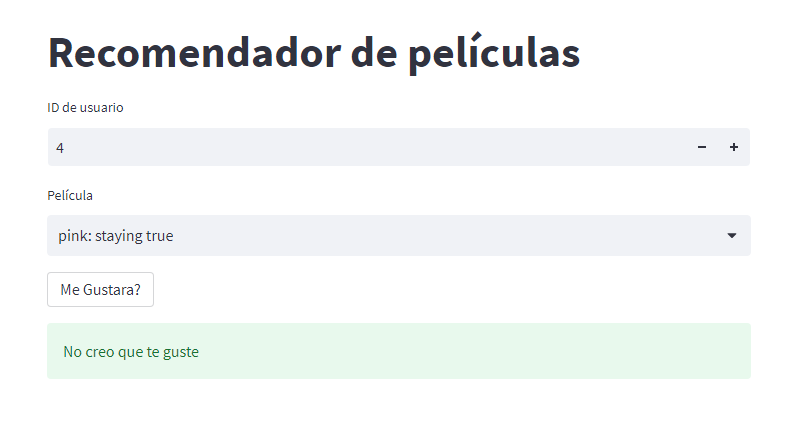
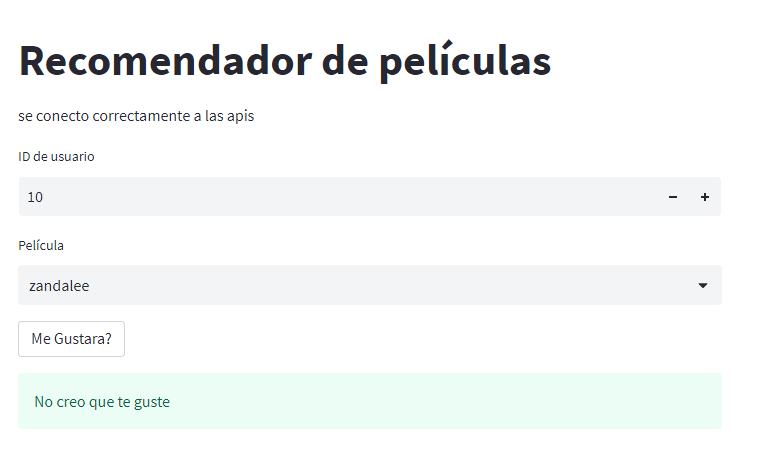
version 1

diff --git a/modelo_ML.py b/modelo_ML.py
@@ -1,23 +1,45 @@
 from sklearn.neighbors import KNeighborsRegressor
 from sklearn.model_selection import GridSearchCV
 import pandas as pd 
-from conect import data_rating
-from trasform_data_ml import export_peli
+import requests
+import json
 
 
-pelis= pd.read_csv('https://objectstorage.sa-saopaulo-1.oraclecloud.com/n/gr4oj5h2hdd0/b/documentos/o/pelis.csv')
+"""Funcion que transformara el JSON de las apis en DataFrame para su modelado """
+def transfor_dataframe(url):
+    data = json.loads(url.text)
+    df = pd.DataFrame(data)
+    return df
 
-rating = pd.read_csv('../rating.csv',index_col='Unnamed: 0')#'https://objectstorage.sa-saopaulo-1.oraclecloud.com/n/gr4oj5h2hdd0/b/documentos/o/rating.csv',index_col='Unnamed: 0')
+"""LLamada a  las Apis"""
+url_movie = requests.get('https://nestor-pi-henry.onrender.com/data')
+url_pelis = requests.get('https://suport-ml.onrender.com/peli_ml')
+
+"""Funcion que retornara un aviso si algo en las llamadas de las Apis fallo"""
+def call_api():
+    if url_movie.status_code==200 and url_pelis.status_code==200:
+        return f'se conecto correctamente a  las apis'
+    else:
+        return f'Ocurrio algun problema con las apis'
+
+
+""" Se generan los datos tanto de la apis como del documento proveniente de Oracle cloud """
+
+movie=transfor_dataframe(url_movie)
+pelis=transfor_dataframe(url_pelis)
+rating = pd.read_csv('https://objectstorage.sa-saopaulo-1.oraclecloud.com/n/gr4oj5h2hdd0/b/documentos/o/rating.csv',index_col='Unnamed: 0')
+
 change_code= {'as943':'as942', 'as5894':'as5087', 'as9037': 'as4402', 'as9059':'as7296', 'as9270' :'as7054', 'ns6706':'ns304','ns7346':'ns160', 'ns8023':'ns1271'}
+
 rating.movieId = rating.movieId.replace(change_code)
 pelis.duration_int.fillna(0,inplace=True)
 
-movie= pd.read_csv('https://objectstorage.sa-saopaulo-1.oraclecloud.com/n/gr4oj5h2hdd0/b/documentos/o/movie_clean.csv') 
-
+""" Genera y devuelve una lista de titulos unicos para que puedan ser usados en el Selectbox de streamlit"""
 def title_movie():
     title= movie['title'].unique()
     return title
 
+"""Filtra los datos para su usoen el modelo"""
 def data_fit(user):
     df1= pelis[pelis.show_id.isin(rating[rating.userId==user].movieId)]
     df2= rating[rating.userId==user][['movieId', 'rating']]
@@ -25,7 +47,7 @@ def data_fit(user):
     if nuevo.shape[0]==0: return f'No se encontro el usuario'
     return nuevo.drop(columns=['movieId'])
 
-
+""" Genera y entrena modelo y envia a la proxima funcion """
 def model_predict(user):
     data = data_fit(user)
     X = data.drop(columns=['show_id','rating'])
@@ -53,7 +75,7 @@ def select_movie(peli):
     return result
 
 
-"""Funcion final que ocupa las otras para saacar el resultado"""
+"""Funcion final donde predice el resultado y genera una respuesta """
 def select_pelic(user,peli):
     model=model_predict(user)
     X = select_movie(peli)

diff --git a/app_streamlit.py b/app_streamlit.py
@@ -1,10 +1,11 @@
 import streamlit as st
 import pandas as pd 
-from modelo_ML import title_movie, select_pelic
+from modelo_ML import title_movie, select_pelic,call_api
 
 
 
 st.title('Recomendador de películas')
+st.write(call_api())
 
 # Pide al usuario que ingrese el ID de usuario
 user_id = st.number_input('ID de usuario', min_value=0, max_value= 115077)# df['id_usuario'].max())

diff --git a/README.md b/README.md
@@ -84,6 +84,7 @@ En este proyecto, mi rol será el de Data Scientist, y también asumiré el pape
 
  ## Modelo de recomendacion
 
+
 Para la visualizacion del producto MLOps se desarrollo un modelo que prediga si una pelicula sera de su interes. El modelo arrojara como resultado si esa pelicula es recomendable para el cliente.
 
 _¿Cuantas veces hacemos zapping por las plataformas y buscamos una pelicula que nos llame la atencion o que nos produzca algo al verla y que  **NO SEA UNA PERDIDA DE TIEMPO HABERLA VISTO**?_
@@ -104,6 +105,16 @@ _Si lo quires probar tu 😉_
 :link: https://huggingface.co/spaces/nestor-chino/nestor-pi-ml
 
 Si tiene alguna falla, o deseas darme recomendacion, o quieres darme un feedback y decirme como lo podria mejorar, sera bien venida
+
+## Comentarios
+
+* _Se realizo una breve investigacion sobre el negocio para poder contrastar datos y agrupar de mejor manera estos para que arrojen datos relevantes lo que haria mas preciso el modelo de **ML**_  
+
+* _En el proceso de transformacion se creo un nuevo dataset con informacion mas relevante y mas precisa de las peliculas_ 
+
+* _Se crearon dos Apis para el modelo, las cuales proporcionan datos para estrcturacion del modelo, creacion y funcionamiento optimo del **[ DEMO ](https://huggingface.co/spaces/nestor-chino/nestor-pi-ml)**, y filtrado de dato_ 
+
+**EL MODELO DE MACHINE LEARNIG SE ENCUANTRA LIGADO A LAS DOS APIS  QUE LE PROPORCIONAN DATOS**
 
 ### Contacto
 * GitHub: :link: https://github.com/nestor1608
